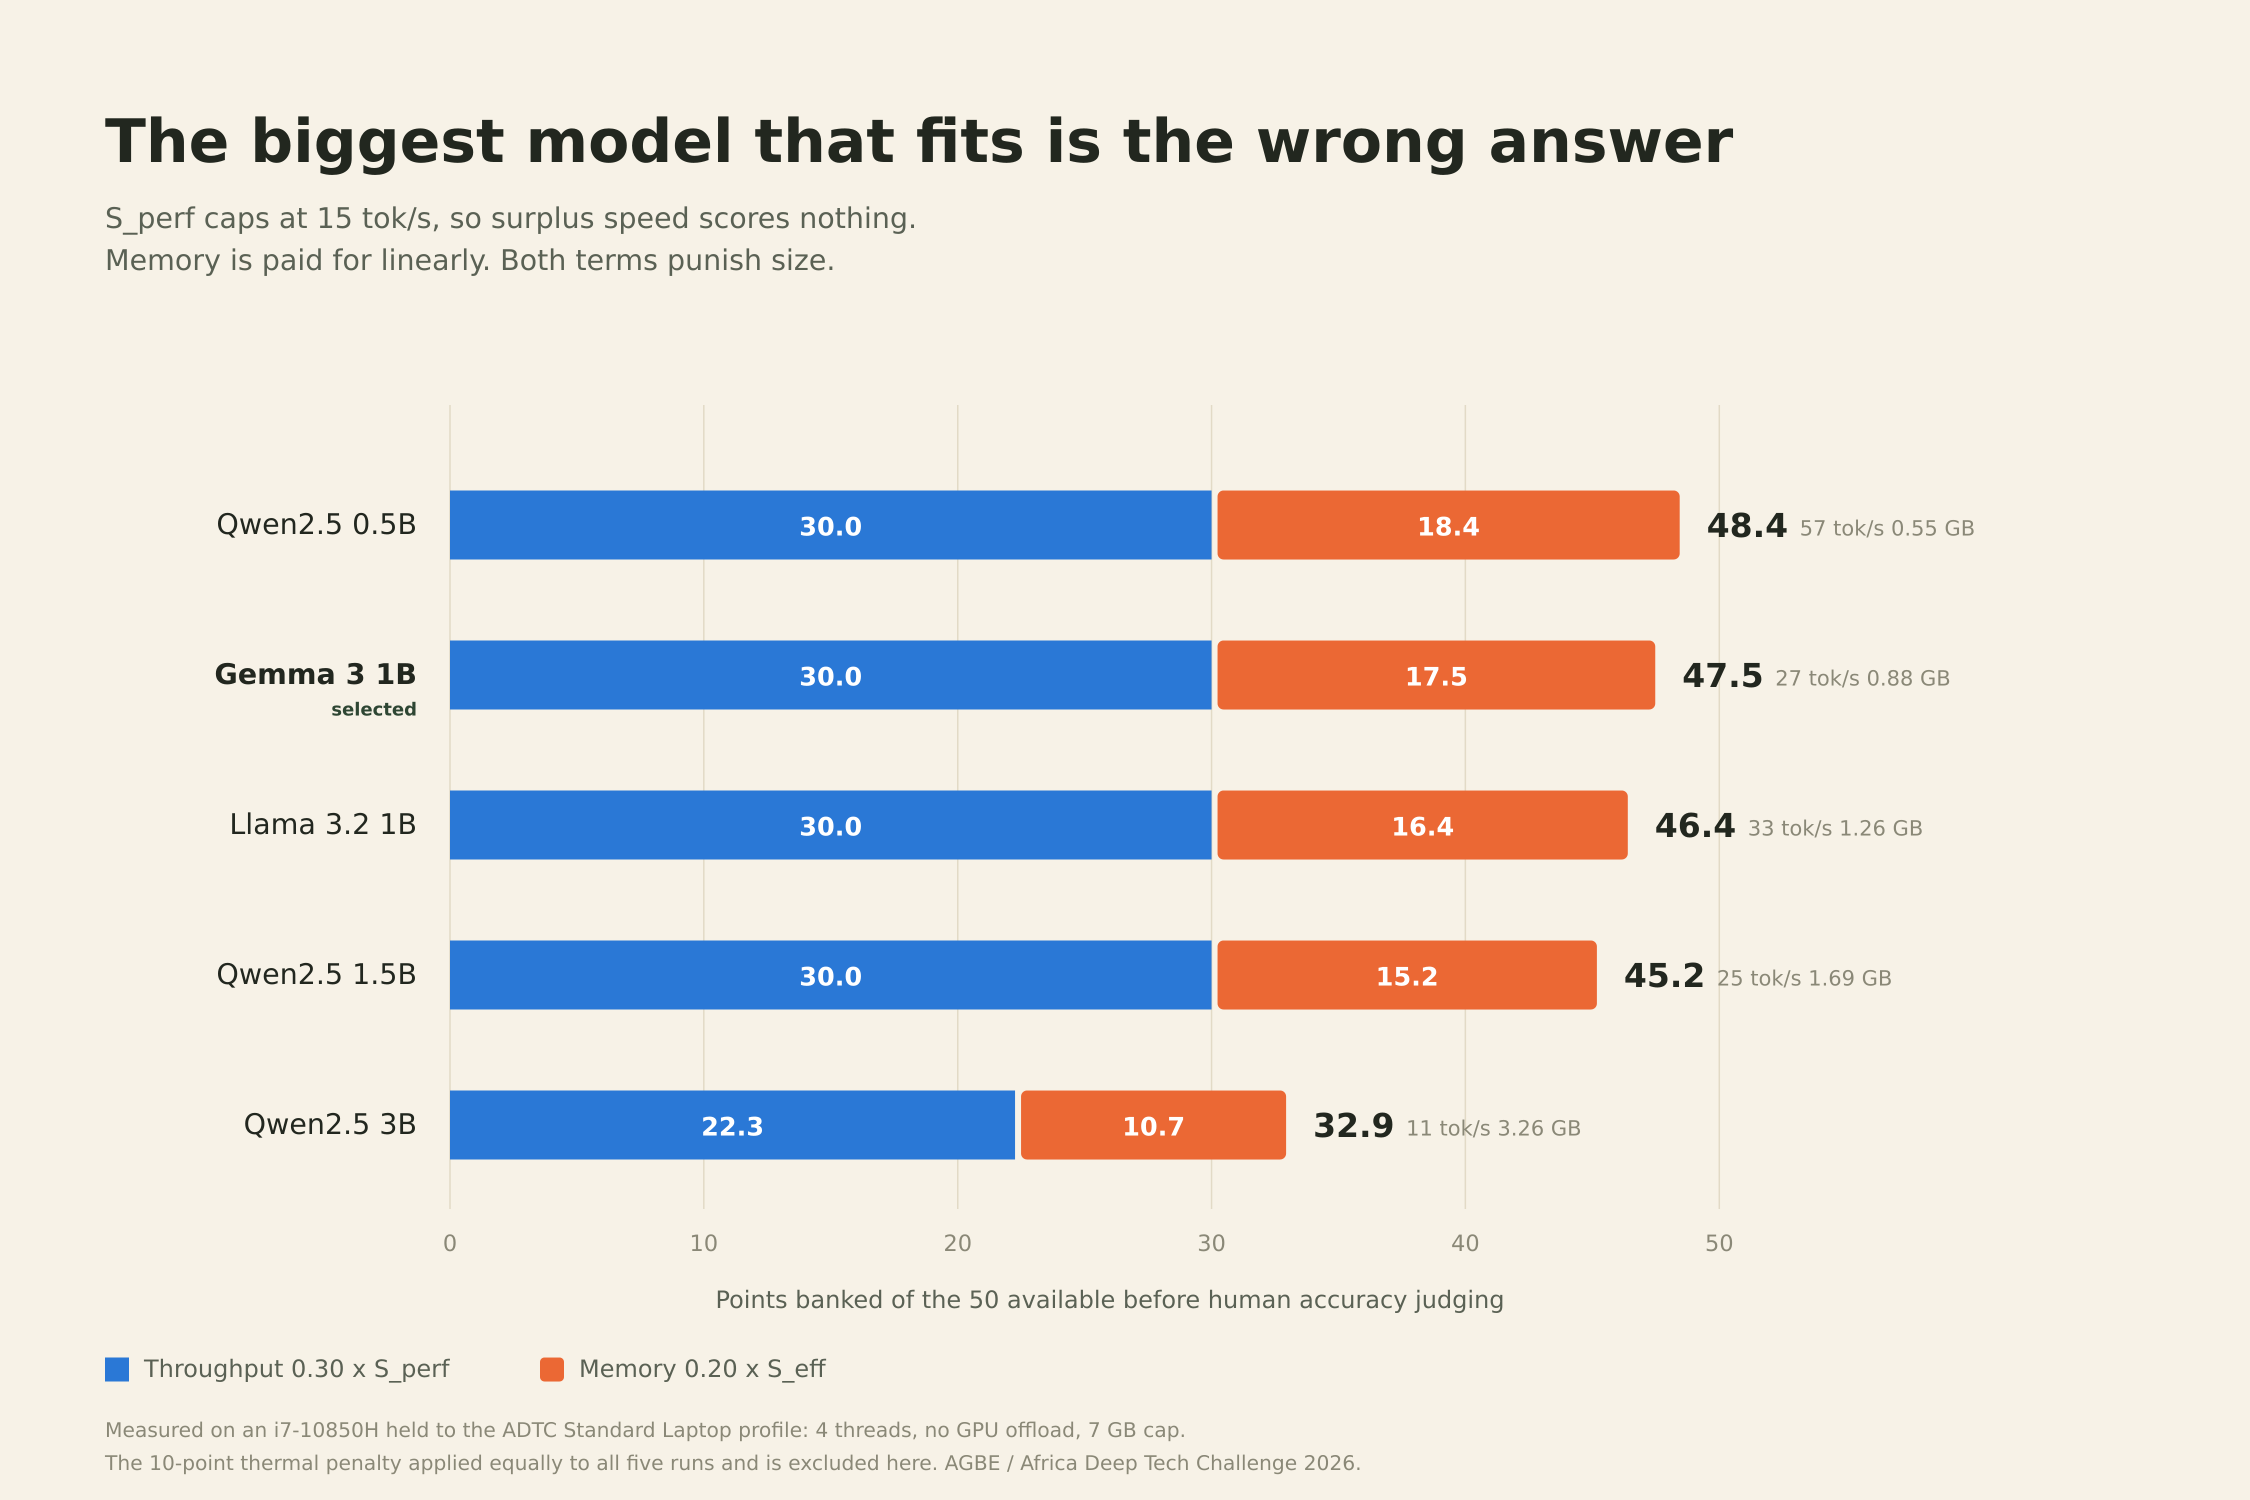
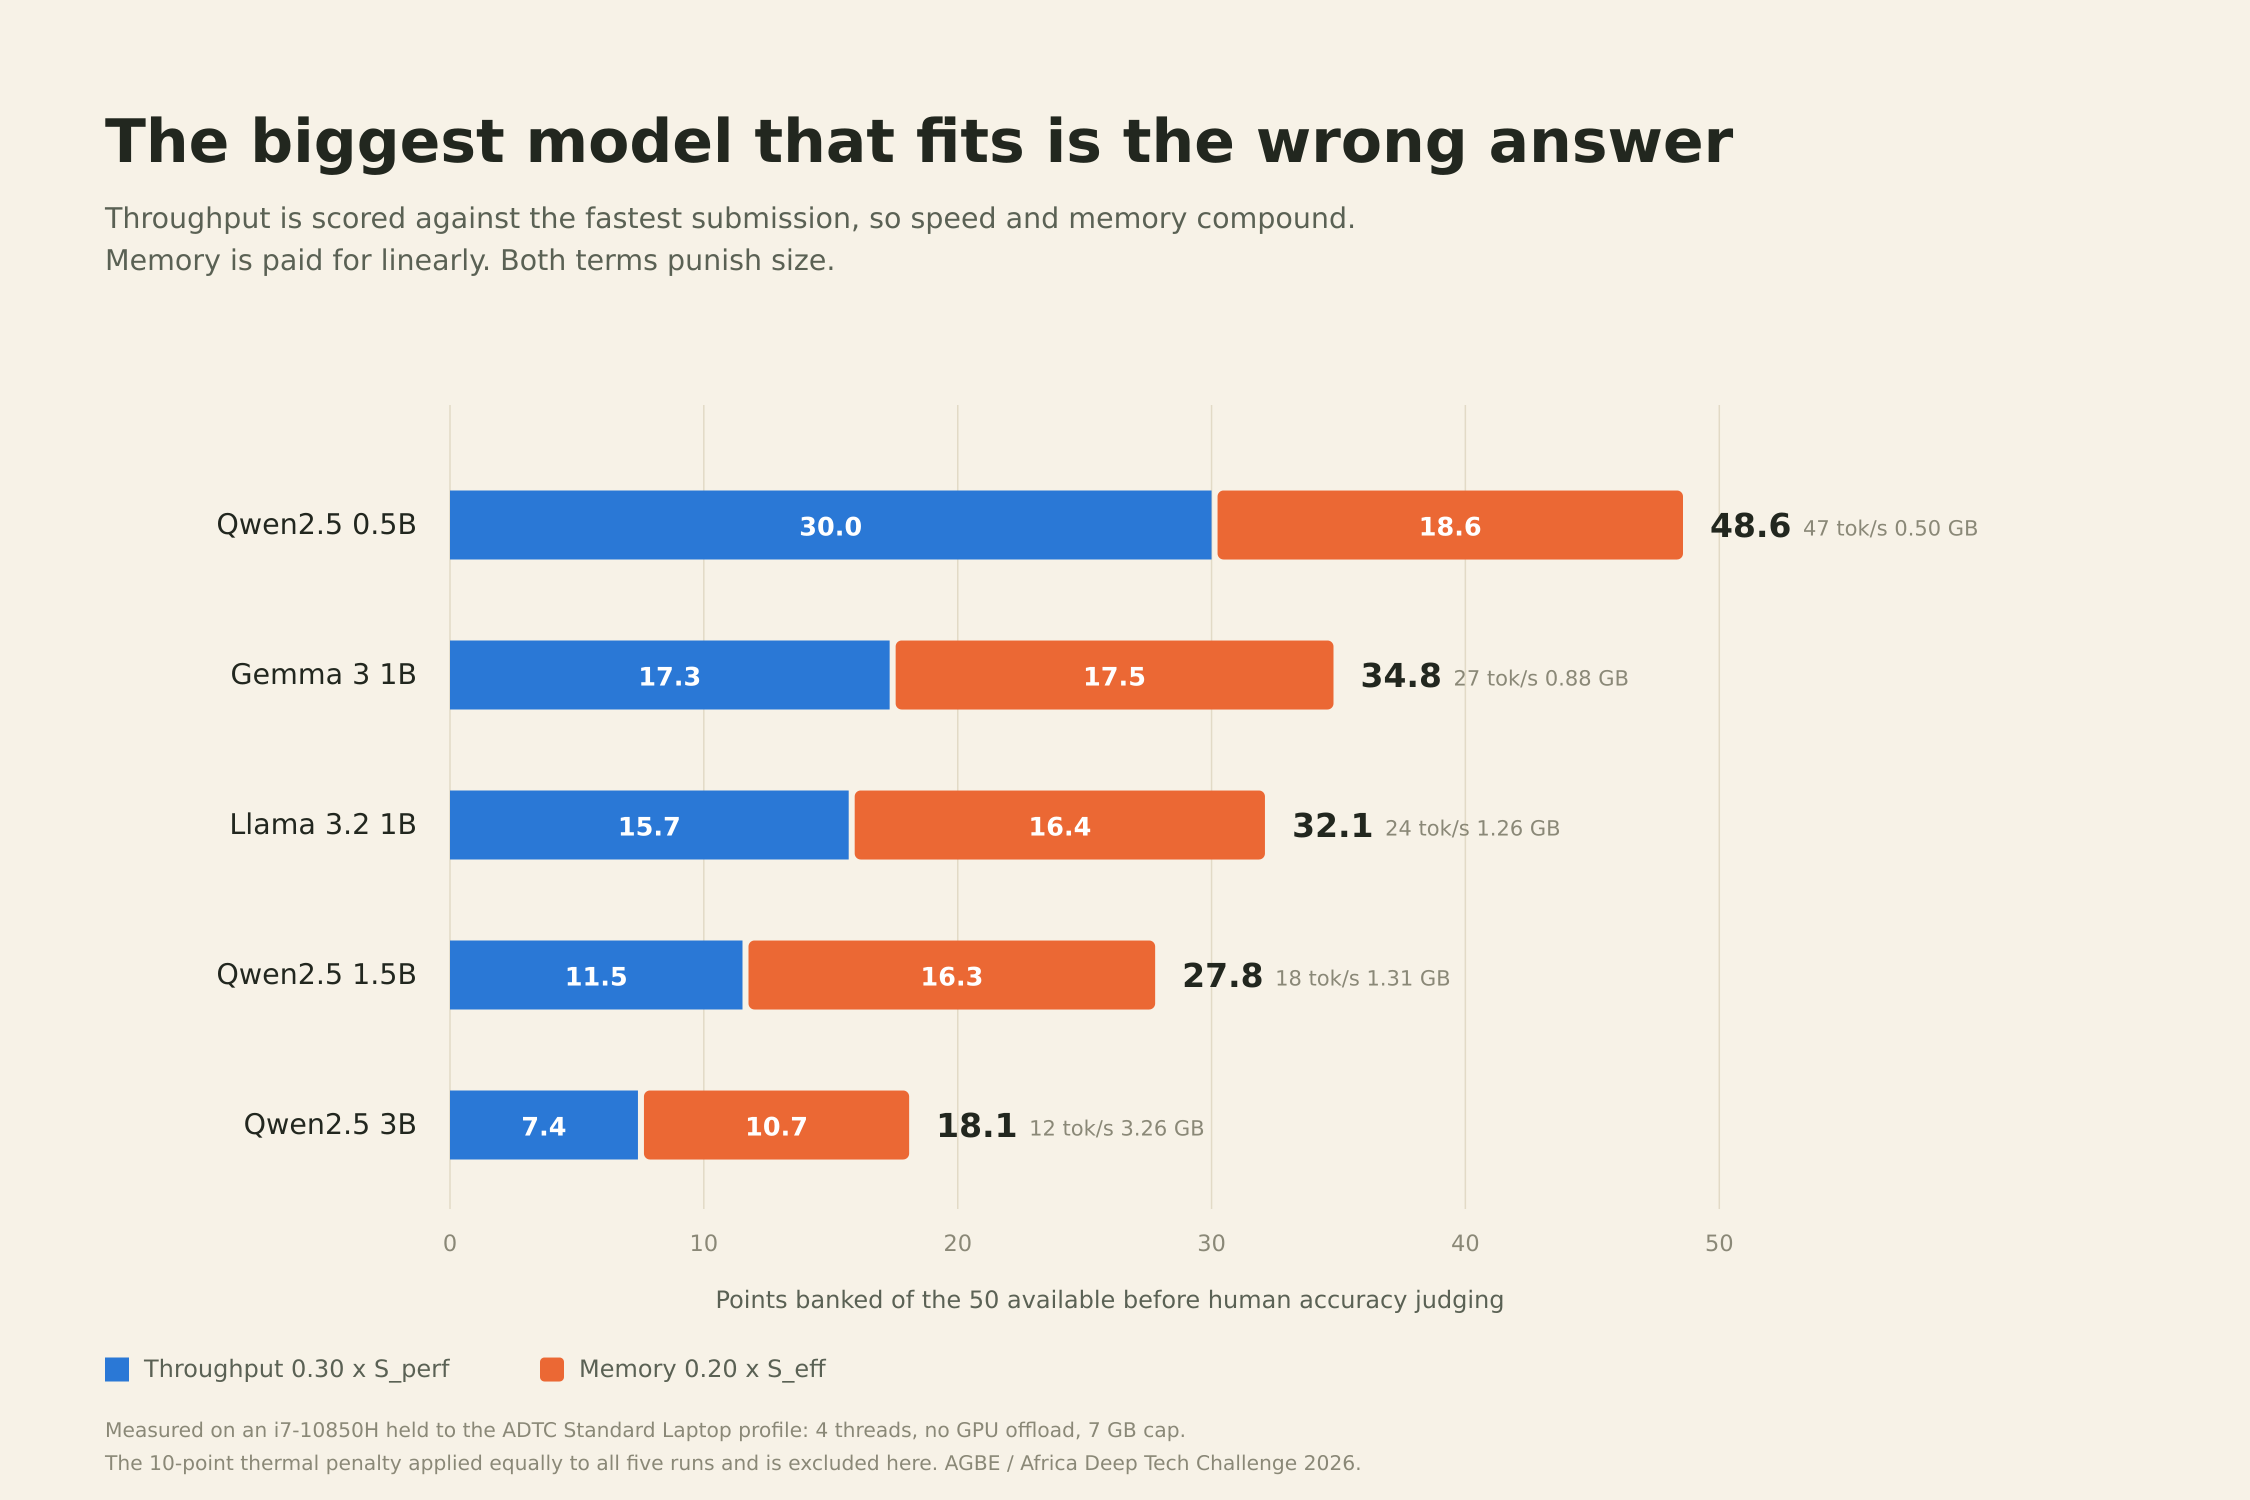
rebuilt the score curve and standardised memory units
the chart on the site was the worst remaining copy of the selection data. it
carried a third set of figures, older than either table in the report: llama at
33 tok/s, the 0.5B at 57, the 1.5B at 25 and 1.69 GB. its subtitle asserted
"S_perf caps at 15 tok/s, so surplus speed scores nothing" as current fact,
which the published formula contradicts and which every text document had
already been corrected away from. an image is not reachable by a text checker,
so it survived three passes.

curve.jsonl was missing from the tree, so the chart could not be rebuilt from
source at all. rebuilt it from the corrected selection figures and scored it
under the published formula. the totals now match the report's published-formula
column exactly: 48.57, 34.80, 32.11, 27.78, 18.09.

memory was quoted three ways across the docs and the site: 1,039 MB, 1.04 GB
decimal and 1.01 GB, which was really 1.01 GiB. quoting GiB as GB in documents
that turn on that exact distinction for S_eff invites the reader to check the
arithmetic and find it wrong. everything public now says 1,039 MB, and the
checker rejects the ambiguous form.

that new rule caught the site, which still carried the stale 14.5 point figure
and the uncorrected "chosen for under one point" framing that the report had
already retracted.

diff --git a/figures/render_score_curve.py b/figures/render_score_curve.py
@@ -8,6 +8,12 @@ The story: the 50 points that are not human-judged split into a throughput term
 (30%) and a memory term (20%). Stacking them shows the total AND why the 3B
 loses, which is the point: it fails on both terms at once, not just one.
 
+Scored under the published formula, where S_perf is relative to the fastest
+candidate. An earlier render used the capped misreading of the provisional
+15 tok/s reference and carried a subtitle asserting it, along with a third set of
+candidate figures older than either table in the report. curve.jsonl was missing
+from the tree, so the data is rebuilt here from the corrected selection figures.
+
 Form: horizontal stacked bar, sorted by total. The job is magnitude comparison
 across a small set of named entities with a two-part composition.
 
@@ -95,7 +101,7 @@ def main() -> None:
     # titles
     p.append(txt(70, 108, "The biggest model that fits is the wrong answer",
                  size=40, weight="bold"))
-    p.append(txt(70, 152, "S_perf caps at 15 tok/s, so surplus speed scores nothing.",
+    p.append(txt(70, 152, "Throughput is scored against the fastest submission, so speed and memory compound.",
                  size=19, fill=INK_SOFT))
     p.append(txt(70, 180, "Memory is paid for linearly. Both terms punish size.",
                  size=19, fill=INK_SOFT))

diff --git a/tools/check_docs.py b/tools/check_docs.py
@@ -39,6 +39,7 @@ BANNED = {
     "3.8x average": "final sentence reuse is %sx" % F["corpus_sentence_reuse"],
     "85.15": "S_eff is 85.50 on the binary reading, 85.16 on the decimal; 85.15 is neither",
     "982 MB": "steady RSS is 987.86 in submission.json, so 988",
+    "1.01 GB": "quote memory in MB; 1,039 MB is 1.01 GiB, not 1.01 GB",
     "22.8 | 1.26": "stale Llama selection figure; the measured run is 24.4",
     "24.9 | 1.69": "stale 1.5B selection figure; a 1.5B cannot outrun a 1B",
     "REPLACE_WITH": "placeholder",

diff --git a/README.md b/README.md
@@ -98,7 +98,7 @@ candidates rather than reasoning about them:
 These are **selection-time measurements from our own harness**, taken before the
 official profiler existed. They are what chose the model. The shipped figures
 elsewhere in this README come from the official profiler on the final build and
-differ: 24.29 tok/s, 1.01 GB, 47.10 points. Different instruments, different
+differ: 24.29 tok/s, 1,039 MB, 47.10 points. Different instruments, different
 numbers, and the profiler's are the ones that count.
 
 > **Historical calculation, kept to document the decision.** The `S_perf` column

diff --git a/REPORT.md b/REPORT.md
@@ -174,7 +174,10 @@ saying so is more useful than quietly restating the conclusion.
 
 ## 6. Quantization
 
-Q4_K_M gives 814 MB on disk and 1.01 GB peak RSS under the official profiler.
+Q4_K_M gives 814 MB on disk and 1,039 MB peak RSS under the official profiler.
+Memory is quoted in MB throughout, the profiler's own unit, because 1,039 MB is
+1.04 GB decimal and 1.01 GiB binary and this document already turns on that
+distinction once, for `S_eff`. One unit, no conversions to check.
 Our own harness measured 0.88 GB; where the two disagreed we report the
 profiler's number.
 
